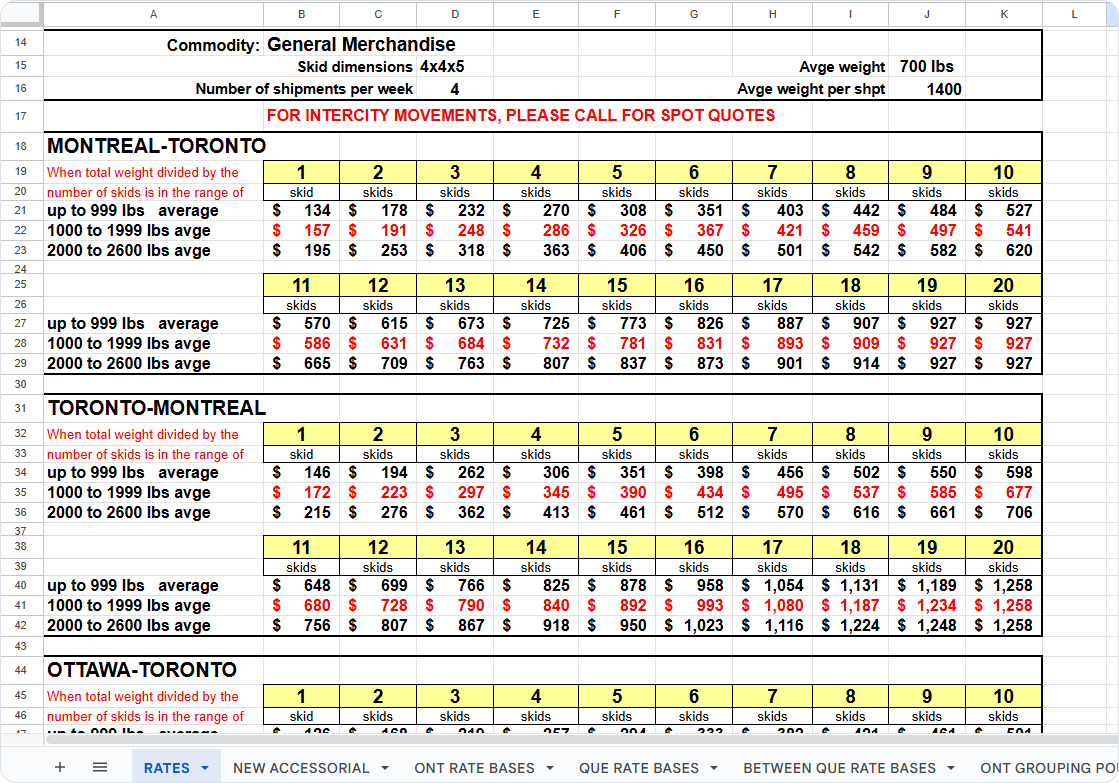
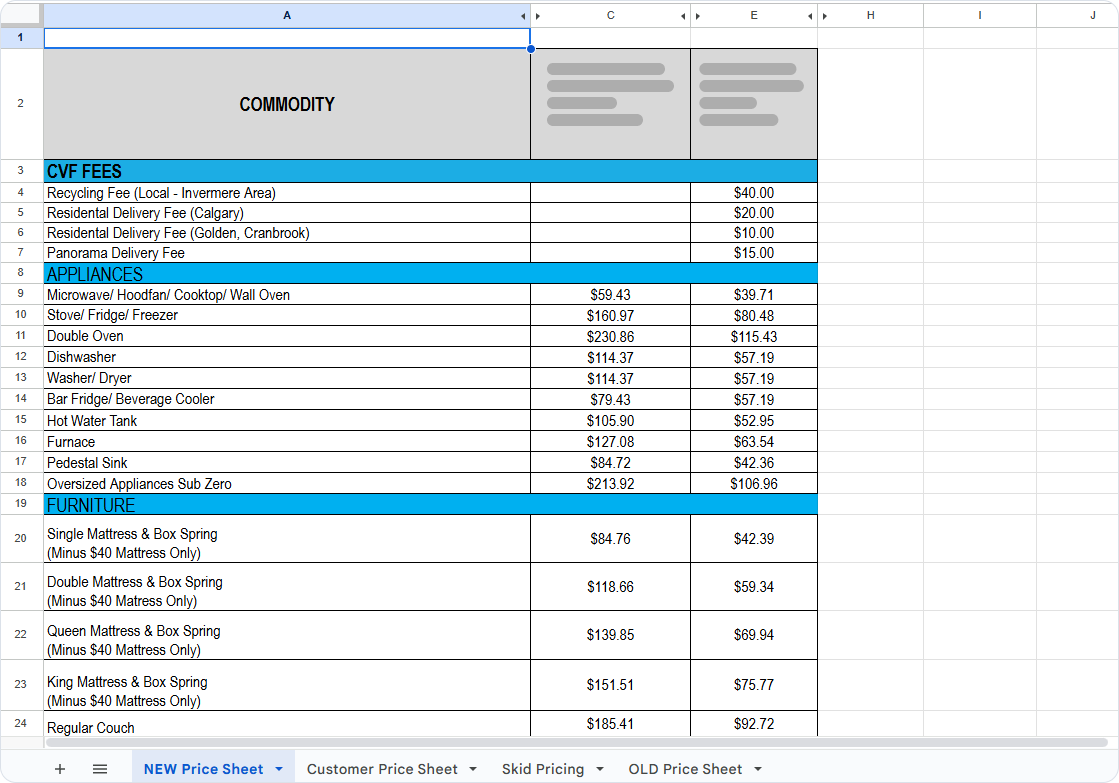
Content updates

diff --git a/rating.html b/rating.html
@@ -270,7 +270,20 @@
                   </div>
                 </div> 
               </div>
-              <div class="accordion">
+              <div class="content spacer-top-xs">
+                  <p>Shown below are screenshots of actual spreadsheets built and used by various companies. For privacy, certain information has been redacted.</p>
+                  <div class="toggle-container">
+                    <img class="toggle-image img-responsive spacer-bottom-xs" src="./files/rating/screenshot1.png" alt="Toggle Image">
+                    <p class="caption">Examples of rating spreadsheets used by various companies to calculate LTL rates. Most contain multiple sheets with various pricing models and factors. Employees are expected to navigate these complex spreadsheets quickly and accurately to rate shipments.</p>
+                    <div class="tab-container">
+                      <div class="tab active" data-image="./files/rating/screenshot1.png" data-caption="Examples of rating spreadsheets used by various companies to calculate LTL rates. Most contain multiple sheets with various pricing models and factors. Employees are expected to navigate these complex spreadsheets quickly and accurately to rate shipments.">Sheet 1</div>
+                      <div class="tab" data-image="./files/rating/screenshot2.png" data-caption="Examples of rating spreadsheets used by various companies to calculate LTL rates. Most contain multiple sheets with various pricing models and factors. Employees are expected to navigate these complex spreadsheets quickly and accurately to rate shipments.">Sheet 2</div>
+                      <div class="tab" data-image="./files/rating/screenshot3.png" data-caption="Examples of rating spreadsheets used by various companies to calculate LTL rates. Most contain multiple sheets with various pricing models and factors. Employees are expected to navigate these complex spreadsheets quickly and accurately to rate shipments.">Sheet 3</div>
+                    </div>
+                  </div>
+                </div>
+
+              <!--<div class="accordion">
                 <input type="checkbox" title="Click to expand" name="collapse1" id="handle1">
                 <h5 class="handle">
                   <label for="handle1">Show sample spreadsheets <span class="caption">(Click to expand)</span></label>
@@ -287,7 +300,7 @@
                     </div>
                   </div>
                 </div>
-              </div>
+              </div> -->
             </section>
             <section id="section1-3" class="section spacer-top">
               <h3 class="spacer-bottom-sm">The Objective</h3>
